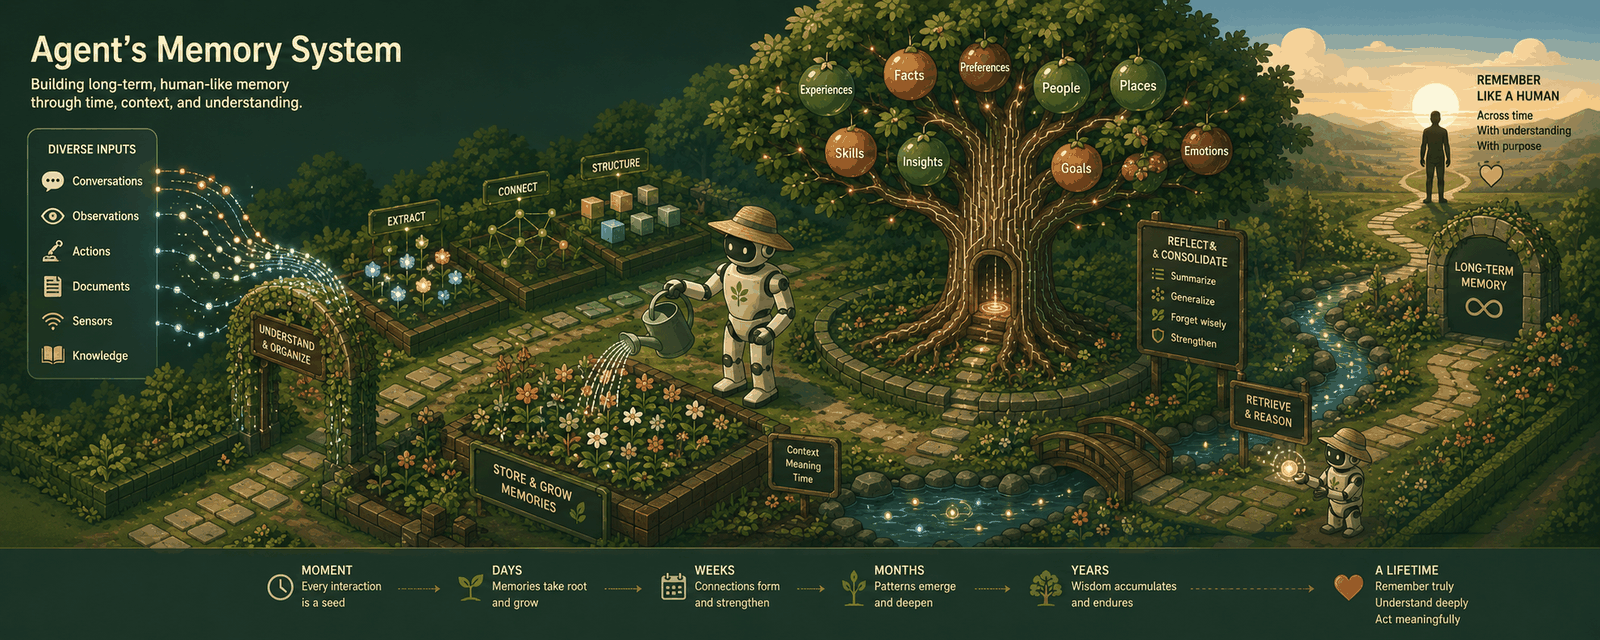
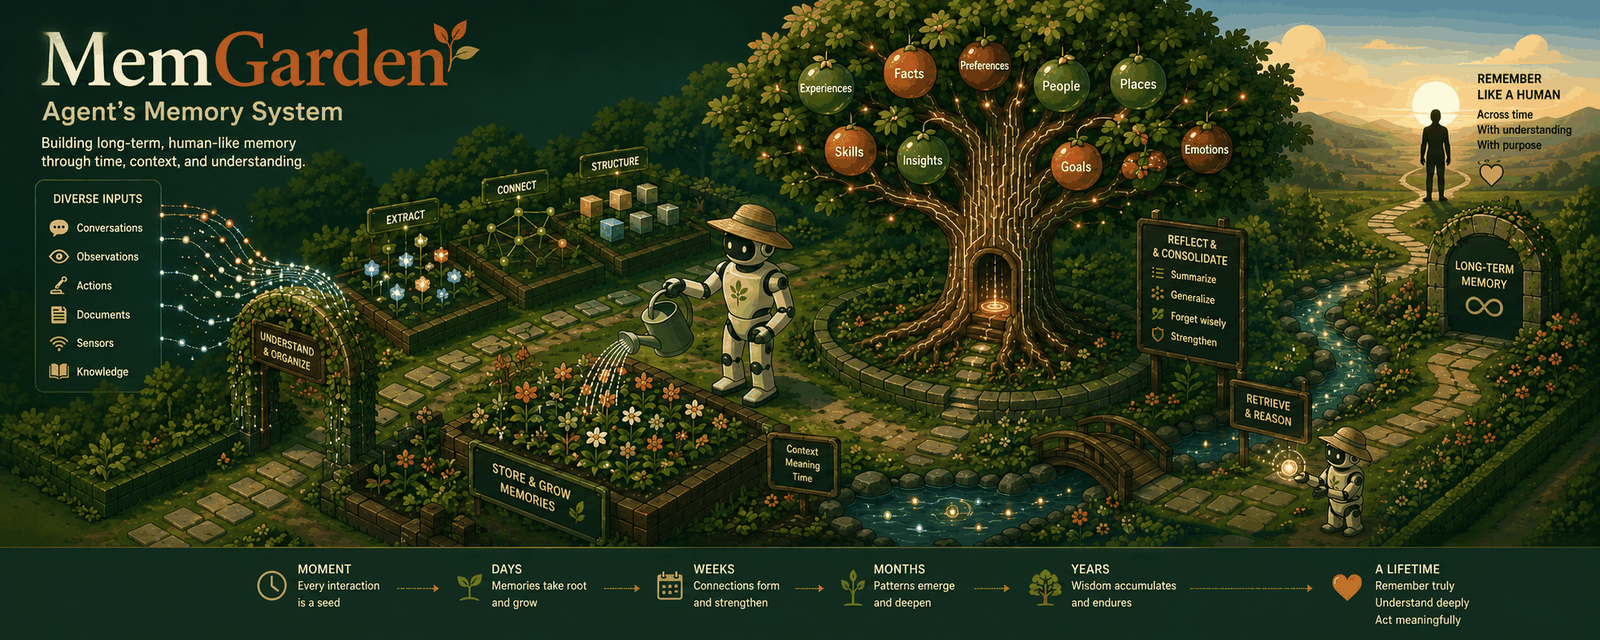
docs: swap in the titled hero image

diff --git a/README.md b/README.md
@@ -1,4 +1,4 @@
-<p align="center"><img src="assets/hero.png" alt="MemGarden — an agent's memory system as a tended garden: inputs flow in, facts take root, connections form, and knowledge is harvested" width="100%"></p>
+<p align="center"><img src="assets/hero.png" alt="MemGarden — an agent's memory system as a tended garden: inputs flow in, facts take root, connections form, and knowledge is harvested over moments, days, weeks, months, years, a lifetime" width="100%"></p>
 
 # MemGarden
 
